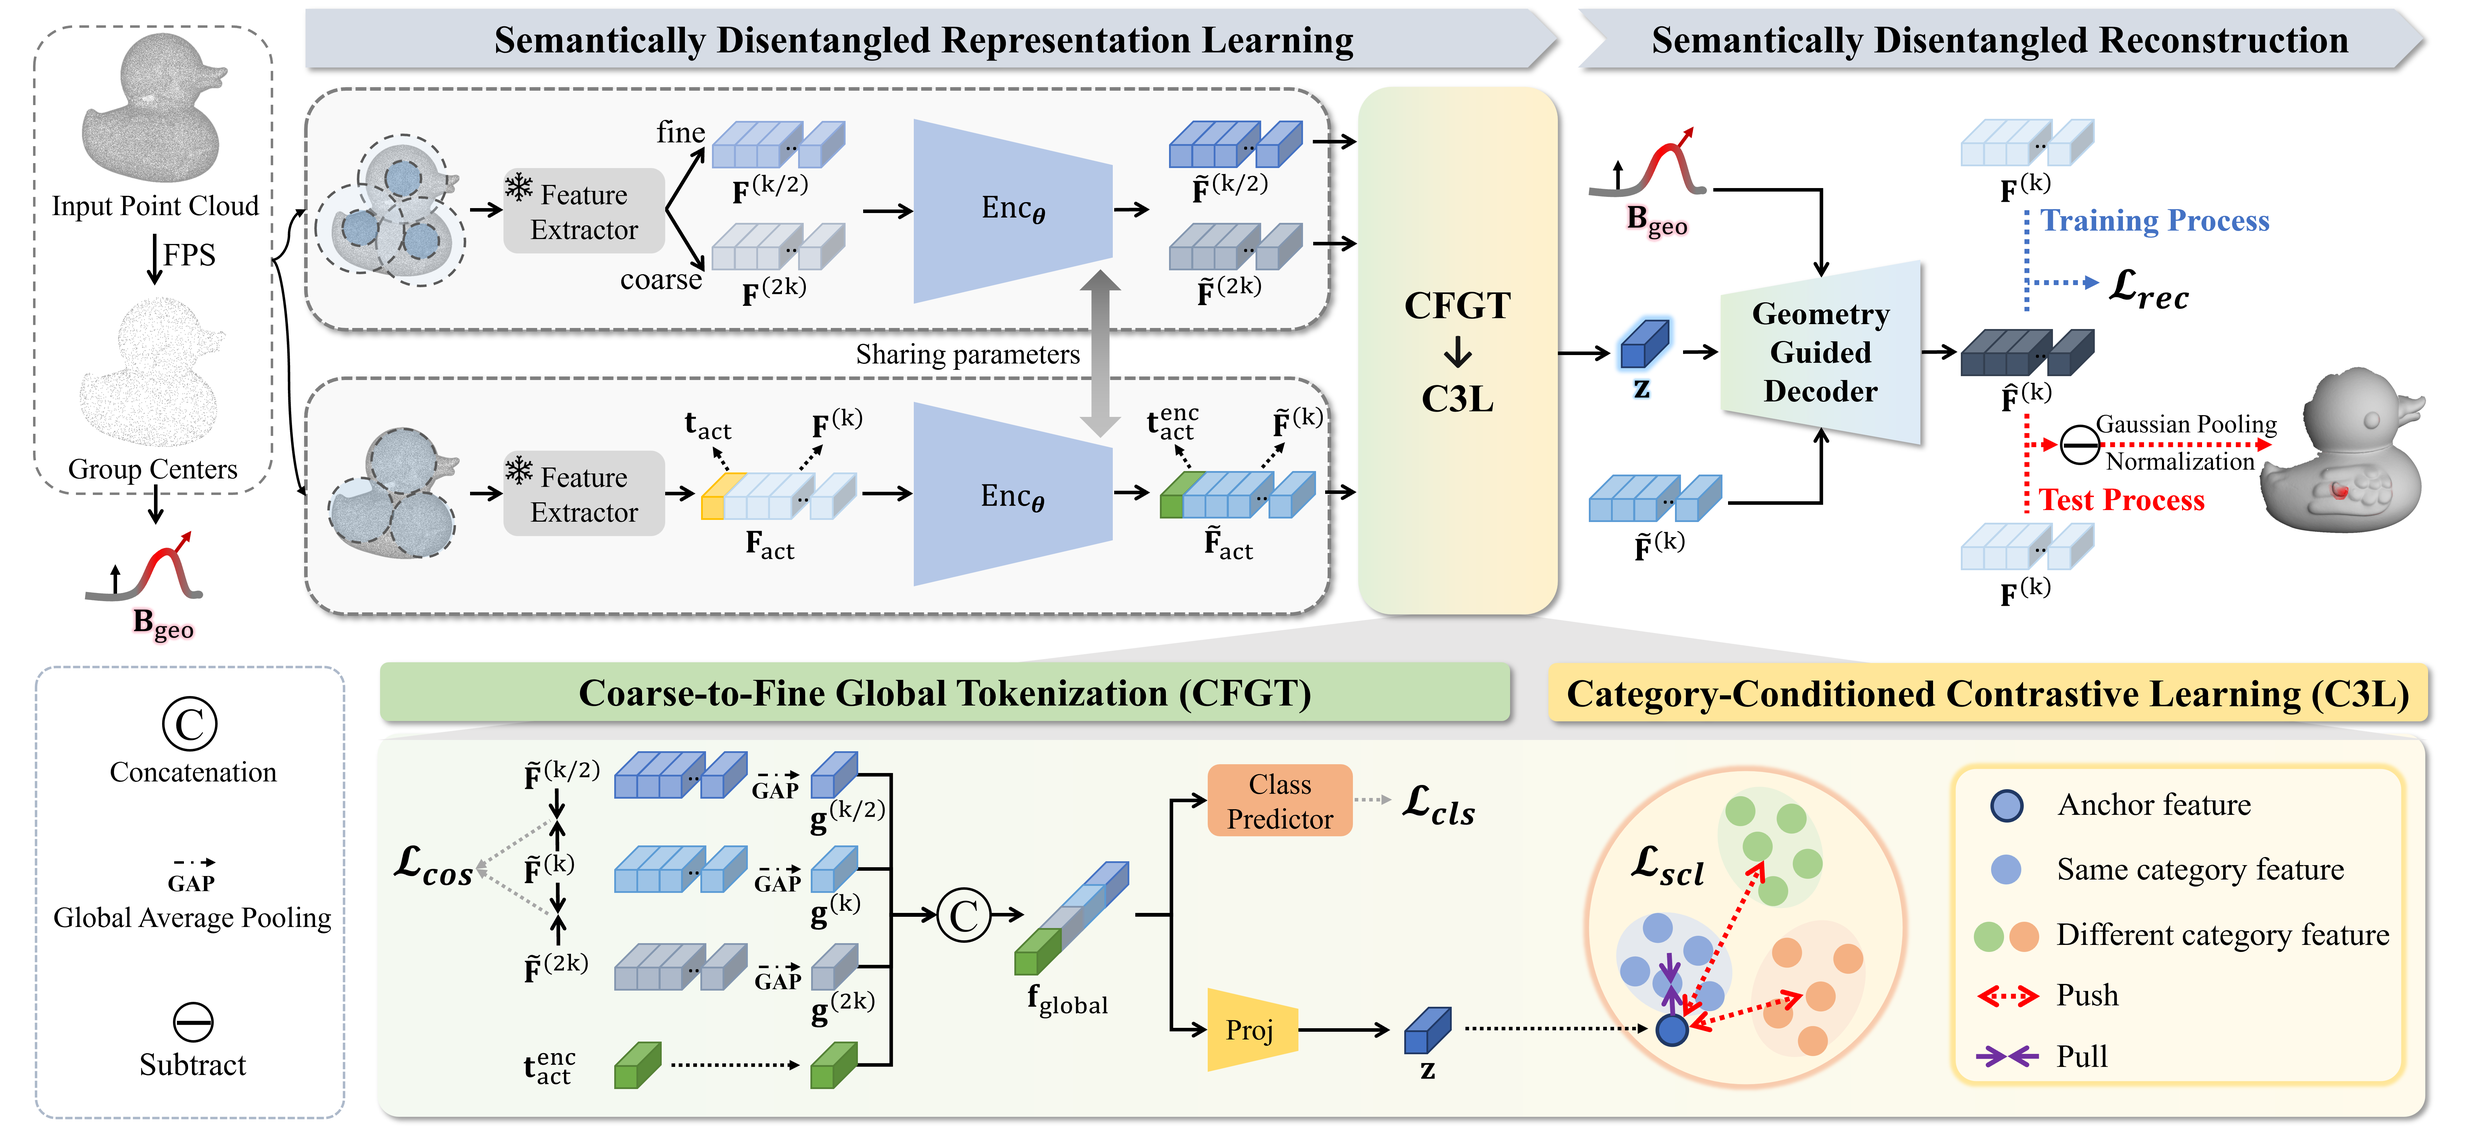
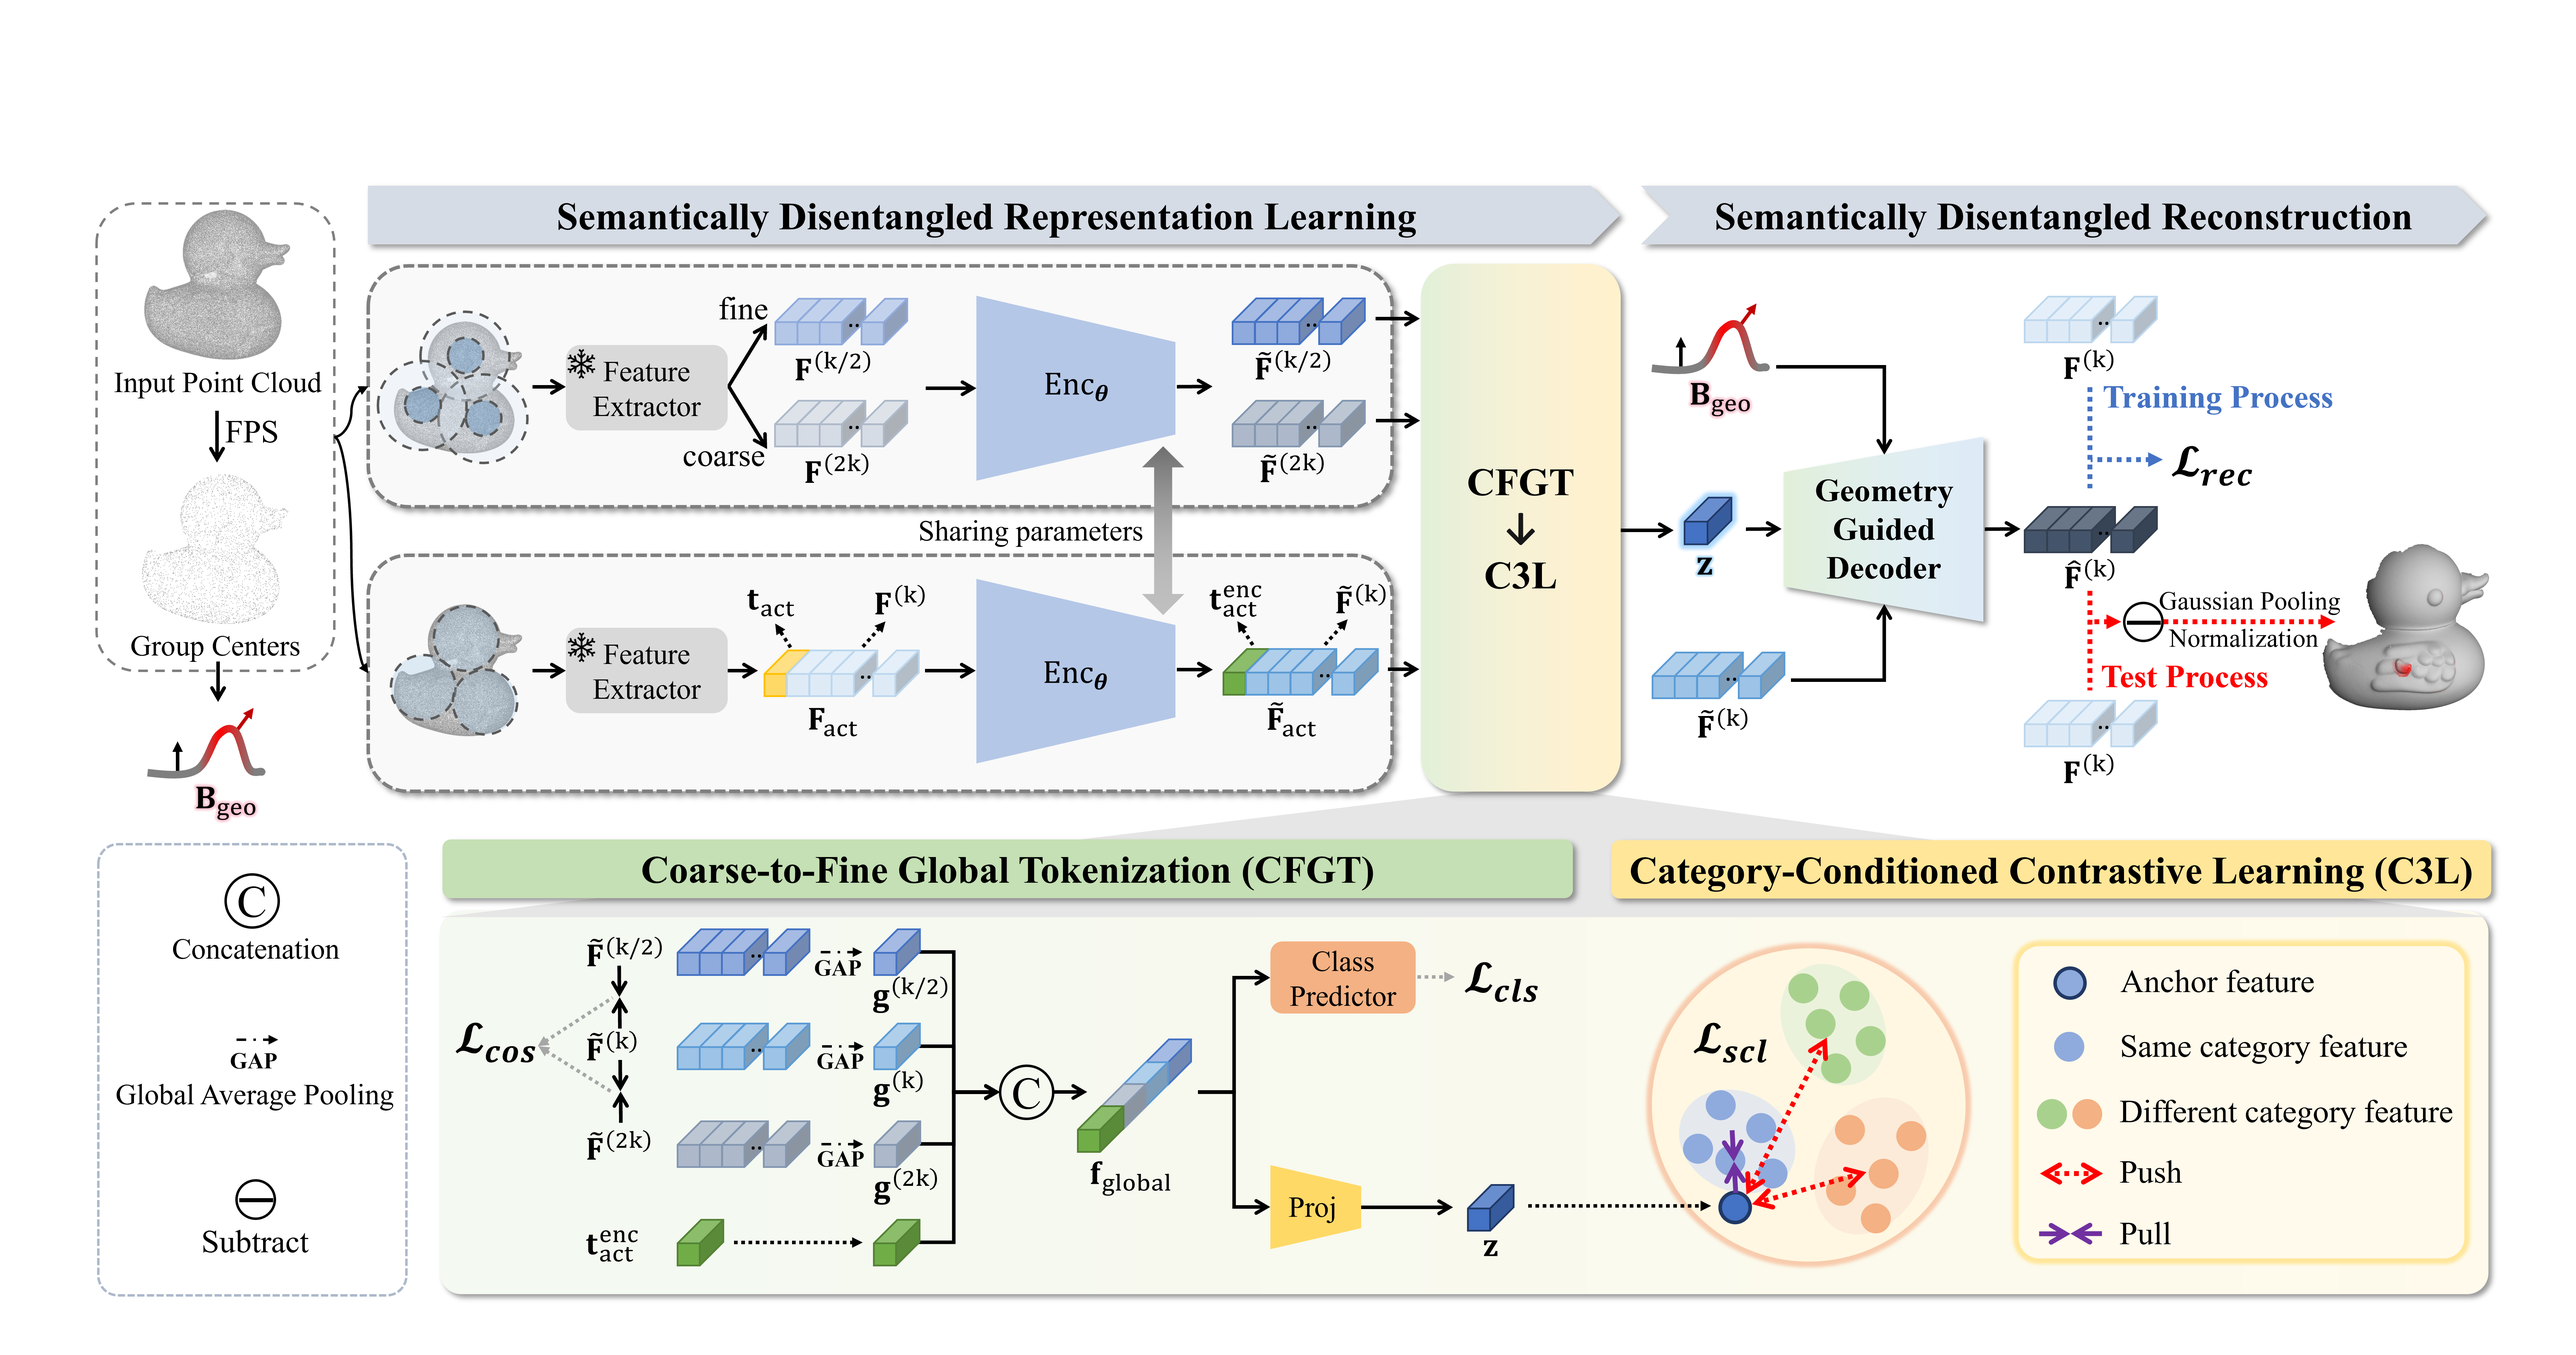
Update

diff --git a/assets/css/publications-no-dark-mode.css b/assets/css/publications-no-dark-mode.css
@@ -72,4 +72,4 @@ blockquote { background: var(--global-bg-color); border-left: 2px solid var(--gl
 
 .publications ol.bibliography li div.abstract.hidden.open { border-color: var(--global-text-color); }
 
-.publications ol.bibliography li .teaser { border-radius: 8px; box-shadow: 3px 3px 6px #888; height: 140px; width: 420px; margin-top: 5px; margin-left: 5px; margin-bottom: 5px; object-fit: cover; }
+.publications ol.bibliography li .teaser { border-radius: 8px; box-shadow: 3px 3px 6px #888; height: 140px; width: 420px; margin-top: 5px; margin-left: 5px; margin-bottom: 5px; object-fit: contain; background: #fff; }

diff --git a/assets/css/publications.css b/assets/css/publications.css
@@ -79,4 +79,4 @@ blockquote { background: var(--global-bg-color); border-left: 2px solid var(--gl
 
 .publications ol.bibliography li div.abstract.hidden.open { border-color: var(--global-text-color); }
 
-.publications ol.bibliography li .teaser { border-radius: 8px; box-shadow: 3px 3px 6px #888; height: 140px; width: 420px; margin-top: 5px; margin-left: 5px; margin-bottom: 5px; object-fit: cover; }
+.publications ol.bibliography li .teaser { border-radius: 8px; box-shadow: 3px 3px 6px #888; height: 140px; width: 420px; margin-top: 5px; margin-left: 5px; margin-bottom: 5px; object-fit: contain; background: #fff; }
